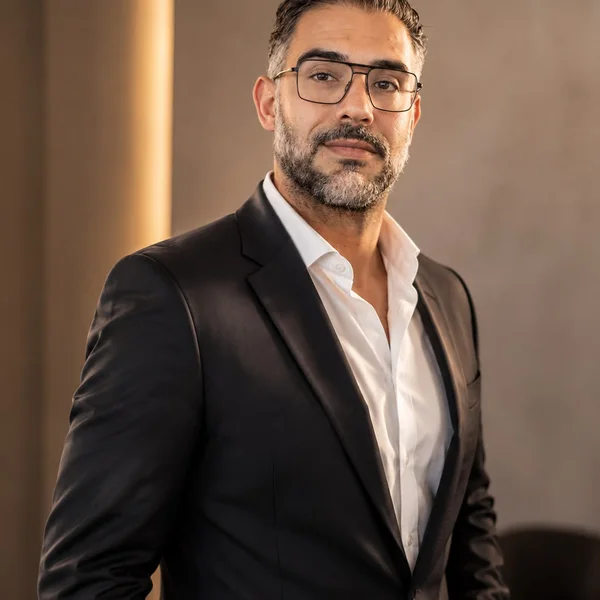
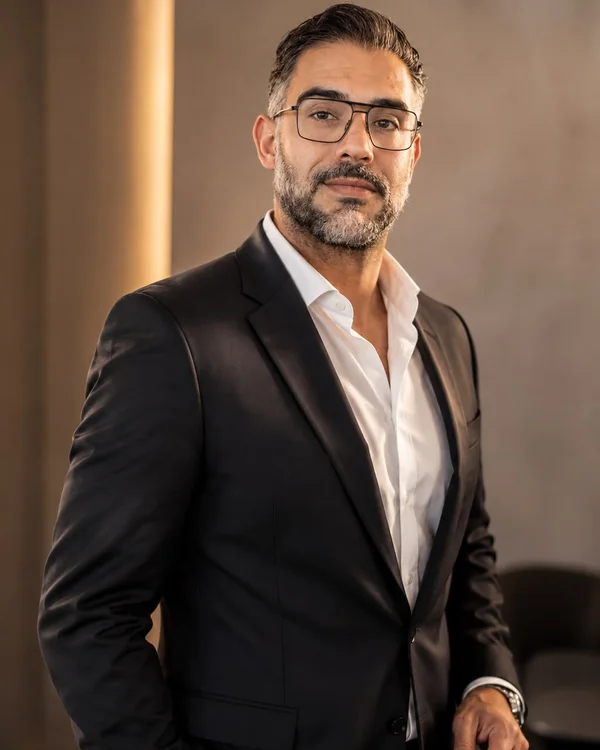
Team: títulos Chief Executive + fotos 4:5 con mejor encuadre

diff --git a/components/Team.tsx b/components/Team.tsx
@@ -1,8 +1,8 @@
 import Image from "next/image";
 
-const MEMBERS = [
-  { name: "Maribel Santamaría", location: "Miami", img: "/images/team/maribel.webp" },
-  { name: "Enrique Cortés", location: "Marbella", img: "/images/team/enrique.webp" },
+const MEMBERS: { name: string; title: string; location: string; img: string }[] = [
+  { name: "Maribel Santamaría", title: "Chief Executive", location: "Miami", img: "/images/team/maribel.webp" },
+  { name: "Enrique Cortés", title: "Chief Executive", location: "Marbella", img: "/images/team/enrique.webp" },
 ];
 
 export default function Team() {
@@ -25,7 +25,7 @@ export default function Team() {
         <div className="grid grid-cols-2 gap-6 md:gap-12 max-w-lg">
           {MEMBERS.map((m) => (
             <div key={m.name} className="flex flex-col gap-4">
-              <div className="relative aspect-[3/4] overflow-hidden">
+              <div className="relative aspect-[4/5] overflow-hidden">
                 <Image
                   src={m.img} alt={m.name} fill
                   className="object-cover object-center grayscale hover:grayscale-0 transition-all duration-700"
@@ -34,6 +34,7 @@ export default function Team() {
               </div>
               <div>
                 <div className="font-serif text-lg font-light text-cream">{m.name}</div>
+                <div className="text-[10.5px] tracking-[0.14em] uppercase text-charcoal-400 mt-0.5">{m.title}</div>
                 <div className="text-[10.5px] tracking-[0.18em] uppercase text-rose-lt mt-0.5">{m.location}</div>
               </div>
             </div>
